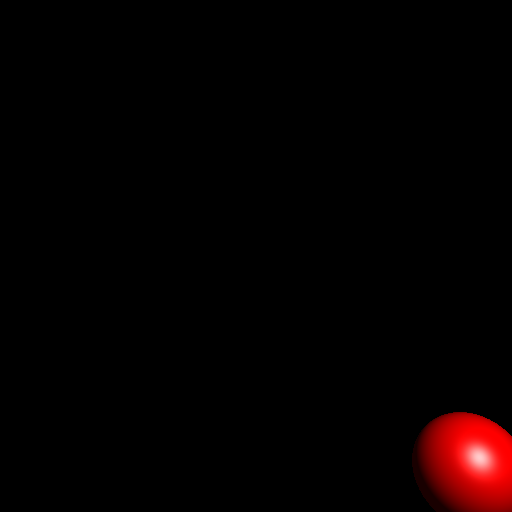
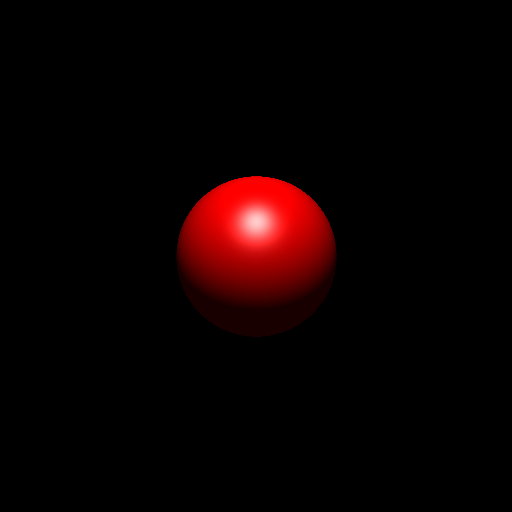
2SpherePlane now working

Changed region(s): [[0.3438, 0.3438, 0.6562, 0.6562], [0.7812, 0.7812, 1.0, 1.0]]

diff --git a/src/comp557/a4/Sphere.java b/src/comp557/a4/Sphere.java
@@ -39,56 +39,60 @@ public class Sphere extends Intersectable {
     	this.material = material;
     }
     
-    boolean first = true; //TEST
+private double dx, dy, dz, ex, ey, ez, cx, cy, cz,  a, b, c, discriminant, t, t0, t1 = 0.0;
     
     @Override
     public void intersect( Ray ray, IntersectResult result ) {
-    	
-    	if ( first )
-    	{
-    		first = !first;
-        	center.x += 4;
-        	center.y -= 4;
-    	}
-    	
-    	if( ray == null )
-    		return;
-    	
-    	if( result == null )
-    		result = new IntersectResult();
-
-    	//Intesects if point p exists such that:
-    	//	1) point p is on ray: p = eye + t*rayDir for some t
-    	//	2) point p is on sphere: ||p||^2 - r = 0
-    	//  Solve for t in dot( ( eye + t*rayDir ), ( eye + t*rayDir ) ) = r -> Quadratic Equation
-    	
-    	
-    	//TEST SPhere at origin
-    	Vector3d	d = new Vector3d( ray.viewDirection );
-    	Point3d		p = new Point3d( ray.eyePoint );
-    	p.sub( center );
-    	
-    	
-    	double pMag = localDot( p, p );	
-    	double dMag = localDot( d, d );	
-    	double dp 	= localDot( d, p );	
-    	
-    	double sqrtTerm = dp*dp - dMag*( pMag -  radius );
-    	if( sqrtTerm >= 0 )
-    	{
-    		double t_plus 	= ( -dp + Math.sqrt( sqrtTerm ) ) / dMag; 
-    		double t_minus 	= ( -dp - Math.sqrt( sqrtTerm ) ) / dMag; 
-    		
-    		double t = ( t_minus > thresholdErr ) ? t_minus : ( t_plus > thresholdErr ) ? t_plus : Double.POSITIVE_INFINITY;
-    		result.t = t;
-    		result.n = new Vector3d( p.x + d.x*t, p.y + d.y*t, p.z + d.z*t );
-    		result.n.normalize();
-    		result.p = new Point3d( p.x + d.x*t, p.y + d.y*t, p.z + d.z*t ); 
-    		result.material = material;
-    	}
-    	
-    }
     
+        // TODO: finish this class
+        
+        // don't have to dereference each time 
+        dx = ray.viewDirection.x; 
+        dy = ray.viewDirection.y; 
+        dz = ray.viewDirection.z;
+        
+        ex = ray.eyePoint.x; 
+        ey = ray.eyePoint.y; 
+        ez = ray.eyePoint.z;
+        
+        cx = center.x; 
+        cy = center.y; 
+        cz = center.z; 
+        
+        
+                
+        // check the discriminant  
+        discriminant = (dx*(ex-cx) + dy*(ey-cy) + dz*(ez-cz))*(dx*(ex-cx) + dy*(ey-cy) + dz*(ez-cz)) - (dx*dx + dy*dy + dz*dz)*((ex-cx)*(ex-cx) + (ey-cy)*(ey-cy) + (ez-cz)*(ez-cz) -this.radius*this.radius);
+        
+        // there is no intersection then don't bother continuing                 
+        if(discriminant < 0.0) return;    
+        
+        discriminant = Math.sqrt(discriminant);
+        // if there are two interesections find the one that hits 
+        if(discriminant > 0 ){
+            t = -1*(dx*(ex-cx) + dy*(ey-cy) + dz*(ez-cz));             
+            t0 = (t - discriminant)/(dx*dx + dy*dy + dz*dz);
+            t1 = (t + discriminant)/(dx*dx + dy*dy + dz*dz);
+          
+          if(t0 < t1 && t0 > 0) t = t0; 
+          else if (t1 < t0 && t1 >0 ) t = t1;
+          else return;
+            
+        }
+        // if there is only one find the one that hits 
+        else t  =  -1*(dx*(ex-cx) + dy*(ey-cy) + dz*(ez-cz))/(dx*dx + dy*dy + dz*dz);
+
+        if(!(t > 0.000001) || result.t < t) return;
+        // set the result in 
+        result.t = t; 
+        result.material = this.material;
+        ray.getPoint(t, result.p);
+        result.n.set((result.p.x-cx)/radius, (result.p.y-cy)/radius, (result.p.z-cz)/radius);           
+        result.n.normalize();
+        
+        
+        
+}
     public static double localDot( Tuple3d a, Tuple3d b )
     {
     	return a.x*b.x + a.y*b.y + a.z*b.z;

diff --git a/src/comp557/a4/Plane.java b/src/comp557/a4/Plane.java
@@ -27,31 +27,52 @@ public class Plane extends Intersectable {
     }
 
         
+    Vector3d helper = new Vector3d();
     @Override
     public void intersect( Ray ray, IntersectResult result ) {
-    	if( ray == null )
-    		return;
-    	
-    	if( result == null )
-    		result = new IntersectResult();
-    	
-    	//t = (-p . n) / (rayDir . n)
-    	double rayDirDotN 	= Sphere.localDot( n, ray.viewDirection );
-    	double pDotN		= -1.0*Sphere.localDot( ray.eyePoint, n);
-    	double 	t = pDotN / rayDirDotN;
-    			t = ( t > threshErr ) ? t :  Double.POSITIVE_INFINITY;
-    	result.t = t;
-    	result.n = n;
-
-		result.p = new Point3d( ray.eyePoint.x + ray.viewDirection.x * t,
-								ray.eyePoint.y + ray.viewDirection.y * t, 
-								ray.eyePoint.z + ray.viewDirection.z * t ); 
-		
-		if ( ( Math.ceil( result.p.x ) + Math.ceil( result.p.z ) ) % 2 == 0 && this.material2!= null  )
-			result.material = this.material2; 
-		else
-			result.material = this.material;
-    	
-    }
+    
+        // TODO: finish this class   
+        // zero is on the plane therefore we only need to set the point as the vector 
+        helper.set(ray.eyePoint);
+        helper.scale(-1);
+        
+        
+        double t = helper.dot(n)/ray.viewDirection.dot(n);
+        
+        if(!(t > 0.000001) || result.t < t) return;
+        
+        result.t =t;
+        result.n.set(n); 
+        //result.p.set(ray.eyePoint.x + result.t * ray.viewDirection.x, ray.eyePoint.y+ result.t * ray.viewDirection.y, ray.eyePoint.z + result.t * ray.viewDirection.z);
+        ray.getPoint(t, result.p);
+        
+        // if only material one is available
+        if(this.material2 == null && this.material != null) { result.material = this.material; }
+        
+        // if only material2 is available 
+        else if(this.material == null && this.material2!= null) { result.material = this.material2;}
+        
+        // if we are in the top right or bottom left quadrants 
+        else if( (result.p.x > 0 && result.p.z>0 ) || result.p.x < 0 && result.p.z < 0 ) {
+            if ((((int)result.p.x) % 2 == 0 && ((int)result.p.z) % 2 == 0) || 
+                    (((int)result.p.x) % 2 != 0 && ((int)result.p.z) % 2 != 0)) {
+                result.material = this.material;
+            }
+            else {
+                result.material = this.material2;
+            }            
+        }  
+        
+        // if we are in the top left or bottom right quadrants 
+        else {
+            if ((((int)result.p.x) % 2 == 0 && ((int)result.p.z) % 2 == 0) || 
+                    (((int)result.p.x) % 2 != 0 && ((int)result.p.z) % 2 != 0)) {
+                result.material = this.material2;
+            }
+            else {
+                result.material = this.material;
+            }   
+        }
+}
     
 }

diff --git a/src/comp557/a4/Scene.java b/src/comp557/a4/Scene.java
@@ -92,7 +92,6 @@ public class Scene {
         		double lightingG = 0.0;
         		double lightingB = 0.0;
         		
-        		
         		if( result != null )
         		{
 	        		for( Light light : lights.values() )
@@ -144,9 +143,10 @@ public class Scene {
 	        				half.normalize();
 	        				
 	        				
-	        				
-	        				double diffuseIntensity = Math.max( 0,Sphere.localDot( result.n, l ) ); 
-	        				double specularIntensity = Math.pow( Math.max( 0,Sphere.localDot( result.n, half ) ), result.material.shinyness ); 
+	        				Vector3d n = new Vector3d();
+	        				n.normalize( result.n);
+	        				double diffuseIntensity = Math.max( 0,Sphere.localDot( n, l ) ); 
+	        				double specularIntensity = Math.pow( Math.max( 0,Sphere.localDot( n, half ) ), result.material.shinyness ); 
 	        				//double intensity = localDot( result.n, );
 	                		Color4f diffuseColour 	= result.material.diffuse;//new Color3f( 1,1,1 );
 	                		Color4f specularColour 	= result.material.specular;//new Color3f( 1,1,1 );
@@ -203,7 +203,6 @@ public class Scene {
 		Point3d e = cam.from;
 		
 		Vector3d w 	= new Vector3d( e.x - cam.to.x, e.y - cam.to.y, e.z - cam.to.z ); //w points away from lookat point at eye point
-		double d 	= w.length();
 		w.normalize(); //Normalize as it is a frame axis
 		
 		Vector3d v = new Vector3d( cam.up );
@@ -215,8 +214,9 @@ public class Scene {
 		
 		double fovy = Math.toRadians( cam.fovy ); 
 		
+		double d 	= e.distance( cam.to );
 		double tanTerm 			= Math.tan( fovy / 2.0 );
-		double viewPlaneHeight 	= d / ( 2 * tanTerm );
+		double viewPlaneHeight 	= d / ( 3 * tanTerm );
 		double viewPlaneWidth 	= viewPlaneHeight * aspectRatio;
 		
 		double scalar_u = ( ( (float)j / (float)imgWidth - 0.5f ) * viewPlaneWidth ); //TODO offset

diff --git a/src/comp557/a4/SceneNode.java b/src/comp557/a4/SceneNode.java
@@ -66,7 +66,9 @@ public class SceneNode extends Intersectable {
             s.intersect( tmpRay, tmpResult );
         }
         if ( tmpResult.t > 1e-9 && tmpResult.t < result.t ) {
-        	M.transform(tmpResult.n);
+        	Minv.transpose();
+        	Minv.transform( tmpResult.n );
+        	Minv.transpose();
         	M.transform(tmpResult.p);
         	result.n.set(tmpResult.n);
         	result.p.set(tmpResult.p); 
